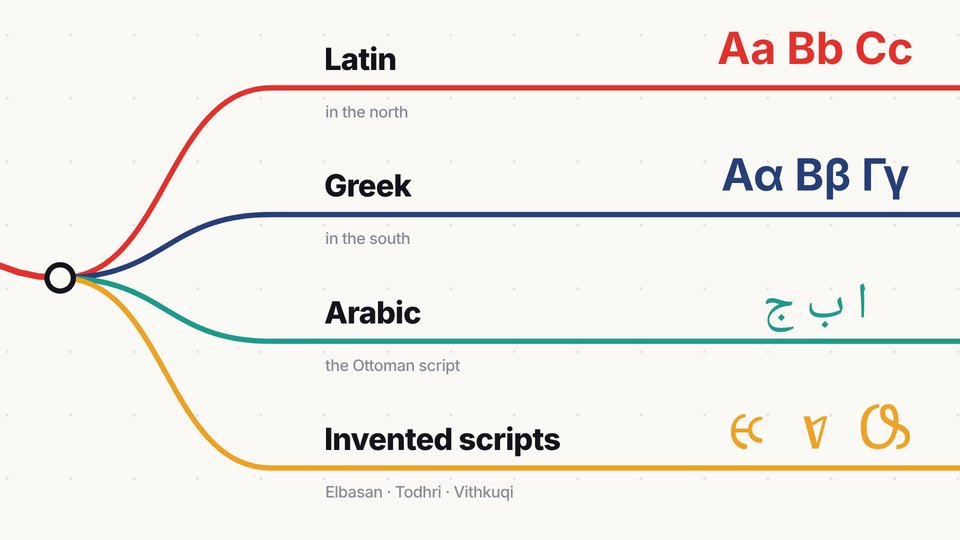
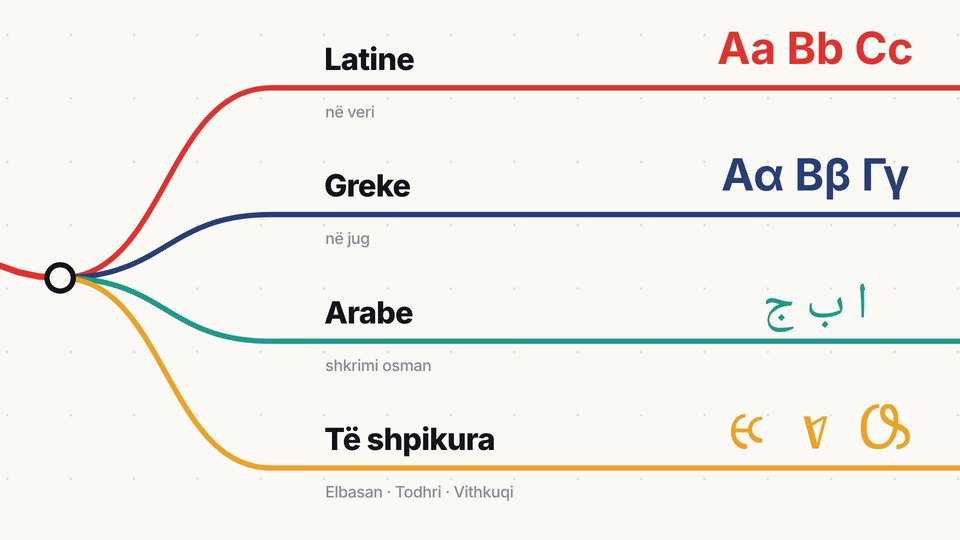
Alphabet film: on-screen text in Albanian

diff --git a/films/alfabeti-line/film.js b/films/alfabeti-line/film.js
@@ -74,13 +74,13 @@ function title(T) {
   const q = Q.title;
   cap('22 NËNTOR  ·  DITA E ALFABETIT', 152, 150, T, 0.3);
   roll('36', 132, 660, T, q[0], { size: 480, col: RED, t1: q[1] - 0.3 });
-  type('letters.', 800, 480, T, q[0] + 0.5, { size: 160, w: 800, t1: q[1] - 0.25 });
-  type('One sound for each.', 808, 606, T, q[0] + 1.7, { size: 68, w: 600, col: MUTE, t1: q[1] - 0.2 });
+  type('shkronja.', 800, 480, T, q[0] + 0.5, { size: 160, w: 800, t1: q[1] - 0.25 });
+  type('Një tingull për secilën.', 808, 606, T, q[0] + 1.7, { size: 68, w: 600, col: MUTE, t1: q[1] - 0.2 });
   LETTERS.forEach((l, i) => { const t0 = q[0] + 0.1 + i * 0.034, k = settle(prog(T, t0, 0.4)); if (k <= 0) return;      // the whole alphabet, lit one letter at a time
     const hot = Math.max(1 - prog(T, t0 + 0.12, 0.6), Math.sin(Math.PI * prog(T, q[1] + 2.9 + i * 0.03, 0.5)));
     ctx.save(); ctx.globalAlpha = clamp(k * 2); font(40, 700, 'Inter', 0); ctx.textAlign = 'center'; ctx.fillStyle = mix(FAINT, RED, hot); ctx.fillText(l, 172 + i * 45.2, 946 + 24 * (1 - k)); ctx.restore(); });
-  type('The Albanian\nalphabet', 144, 440, T, q[1] + 0.1, { size: 176, w: 800, lh: 0.97 });
-  sub('and the first book every child opens.', 152, 806, T, q[1] + 2.7, { size: 46 });
+  type('Alfabeti\nshqip', 144, 440, T, q[1] + 0.1, { size: 176, w: 800, lh: 0.97 });
+  sub('dhe libri i parë që hap çdo fëmijë.', 152, 806, T, q[1] + 2.7, { size: 46 });
   book(1570, 470, 170, T, q[1] + 3.4);
 }
 
@@ -88,22 +88,22 @@ function title(T) {
 const T1462 = when(SPX, 3600), T1555 = when(SPX, 5500);
 function early(T) {
   const q = Q.early;
-  type('Spoken', 2046, 400, T, q[0] + 0.2, { size: 176, w: 800 }); type('long before it was written.', 2056, 500, T, q[0] + 0.9, { size: 64, w: 600, col: MUTE });
-  cap('SPOKEN', 2650, 884, T, q[0] + 0.8, { align: 'c', t1: q[1] - 0.4 }); cap('WRITTEN', 3410, 884, T, q[0] + 2.0, { align: 'c', col: INK, t1: q[1] - 0.4 });
+  type('E folur', 2046, 400, T, q[0] + 0.2, { size: 176, w: 800 }); type('shumë kohë para se të shkruhej.', 2056, 500, T, q[0] + 0.9, { size: 64, w: 600, col: MUTE });
+  cap('E FOLUR', 2650, 884, T, q[0] + 0.8, { align: 'c', t1: q[1] - 0.4 }); cap('E SHKRUAR', 3410, 884, T, q[0] + 2.0, { align: 'c', col: INK, t1: q[1] - 0.4 });
   stop(3600, Y1, T, T1462, RED); roll('1462', 3584, Y1 - 100, T, T1462, { size: 220 });
-  type('Baptism formula', 3590, Y1 + 116, T, T1462 + 0.3, { size: 58, w: 800 }); sub('The oldest dated line in Albanian', 3590, Y1 + 170, T, T1462 + 0.5); sub('Pal Engjëlli · 8 November 1462', 3590, Y1 + 218, T, T1462 + 0.65);
+  type('Formula e pagëzimit', 3590, Y1 + 116, T, T1462 + 0.3, { size: 58, w: 800 }); sub('Fjalia më e vjetër e datuar', 3590, Y1 + 170, T, T1462 + 0.5); sub('Pal Engjëlli · 8 nëntor 1462', 3590, Y1 + 218, T, T1462 + 0.65);
   type('“Un’te paghesont’ pr’emenit\nt’Atit e t’Birit e t’Spertit Senit.”', 4250, Y1 - 190, T, T1462 + 0.9, { size: 54, w: 600, by: 'char', gap: 0.03, d: 0.4, lh: 1.3 });
-  sub('“I baptise you in the name of the Father,\nand the Son, and the Holy Spirit.”', 4250, Y1 + 116, T, T1462 + 3.0, { size: 34, lh: 1.36 });
+  sub('“Unë të pagëzoj në emër të Atit,\ne të Birit, e të Shpirtit të Shenjtë.”', 4250, Y1 + 116, T, T1462 + 3.0, { size: 34, lh: 1.36 });
   stop(5500, Y1, T, T1555, RED); roll('1555', 5484, Y1 - 100, T, T1555, { size: 220 });
-  type('Meshari', 5490, Y1 + 116, T, T1555 + 0.3, { size: 58, w: 800 }); sub('The first known printed book in Albanian', 5490, Y1 + 170, T, T1555 + 0.5); sub('Gjon Buzuku', 5490, Y1 + 218, T, T1555 + 0.65);
+  type('Meshari', 5490, Y1 + 116, T, T1555 + 0.3, { size: 58, w: 800 }); sub('Libri i parë i shtypur që njohim', 5490, Y1 + 170, T, T1555 + 0.5); sub('Gjon Buzuku', 5490, Y1 + 218, T, T1555 + 0.65);
   book(6560, 470, 190, T, T1555 + 0.6, { rules: 4 });
 }
 
 // ---------- one line becomes four
-const NAMES = ['Latin', 'Greek', 'Arabic', 'Invented scripts'], NOTES = ['in the north', 'in the south', 'the Ottoman script', 'Elbasan · Todhri · Vithkuqi'];
+const NAMES = ['Latine', 'Greke', 'Arabe', 'Të shpikura'], NOTES = ['në veri', 'në jug', 'shkrimi osman', 'Elbasan · Todhri · Vithkuqi'];      // shkronja latine, greke, arabe, të shpikura
 function scripts(T) {
   const q = Q.scripts;
-  type('For centuries,', 6570, 1640, T, q[0] + 0.1, { size: 64, w: 600, col: MUTE }); type('no single\nalphabet.', 6564, 1790, T, q[0] + 1.3, { size: 150, w: 800, lh: 1.02 });
+  type('Për shekuj me radhë,', 6570, 1640, T, q[0] + 0.1, { size: 64, w: 600, col: MUTE }); type('asnjë alfabet\ni vetëm.', 6564, 1784, T, q[0] + 1.3, { size: 124, w: 800, lh: 1.04 });
   stop(7900, Y2, T, when(SPX, 7890), INK, 30);
   STR.filter(s => s.base !== undefined).forEach(s => { const i = s.base, t0 = INTRO[i] + 0.25;
     type(NAMES[i], 8400, s.y - 34, T, t0, { size: 58, w: 800 }); sub(NOTES[i], 8402, s.y + 56, T, t0 + 0.25, { size: 30 });
@@ -114,17 +114,17 @@ function scripts(T) {
 }
 
 // ---------- primers, and more alphabets
-const T1844 = Q.primer[0] + 1.0, PRIMERS = [['1867–72', 'Kristoforidhi · Gheg and Tosk'], ['1879', 'The Istanbul primer'], ['1905–06', 'Gurakuqi']];
+const T1844 = Q.primer[0] + 1.0, PRIMERS = [['1867–72', 'Kristoforidhi · gegë e toskë'], ['1879', 'Abetarja e Stambollit'], ['1905–06', 'Gurakuqi']];
 function primer(T) {
   const q = Q.primer;
   stop(9900, 2260, T, T1844, AMBER); roll('1844', 9884, 2512, T, T1844, { size: 220 });
   book(10640, 2436, 112, T, T1844 + 2.3, { rules: 0 }); ['𐕰', '𐕱', '𐕲', '𐕳'].forEach((g, j) => glyph(g, 10640 + (j < 2 ? -1 : 1) * (j % 2 ? 76 : 34), 2428, T, T1844 + 2.9 + j * 0.1, { size: 36, fam: 'Vithkuqi', w: 400, col: AMBER }));
-  type('Ëvetar', 10830, 2416, T, T1844 + 2.6, { size: 64, w: 800, t1: q[1] - 0.4 }); sub('The first Albanian primer', 10832, 2470, T, T1844 + 2.8, { t1: q[1] - 0.4 }); sub('by Naum Veqilharxhi, in his own script', 10832, 2518, T, T1844 + 3.0, { t1: q[1] - 0.4 });
+  type('Ëvetar', 10830, 2416, T, T1844 + 2.6, { size: 64, w: 800, t1: q[1] - 0.4 }); sub('Abetarja e parë shqipe', 10832, 2470, T, T1844 + 2.8, { t1: q[1] - 0.4 }); sub('nga Naum Veqilharxhi, me shkrimin e tij', 10832, 2518, T, T1844 + 3.0, { t1: q[1] - 0.4 });
   PRIMERS.forEach(([yr, who], j) => { const x = 11720 + j * 600, t0 = q[1] + 1.4 + j * 0.5;
     rule(x, 1492, x, 2308, ez(T, t0, 0.7), FAINT, 3); book(x, 1396, 56, T, t0 + 0.1, { rules: 0, lw: 5 });
     type(yr, x + 80, 1392, T, t0 + 0.2, { size: 54, w: 800 }); sub(who, x + 81, 1436, T, t0 + 0.35, { size: 30 }); });
-  type('More primers followed', 11700, 2436, T, q[1] + 0.7, { size: 96, w: 800, t1: q[2] - 0.5 }); sub('in different alphabets, and in both dialects', 11705, 2494, T, q[1] + 1.2, { size: 40, t1: q[2] - 0.5 });
-  type('At least six alphabets', 13420, 1440, T, q[2] + 1.9, { size: 120, w: 800 }); sub('in use by the start of the twentieth century', 13426, 1498, T, q[2] + 2.3);
+  type('Pasuan abetare të tjera', 11700, 2436, T, q[1] + 0.7, { size: 96, w: 800, t1: q[2] - 0.5 }); sub('me alfabete të ndryshme dhe në të dy dialektet', 11705, 2494, T, q[1] + 1.2, { size: 40, t1: q[2] - 0.5 });
+  type('Të paktën gjashtë alfabete', 13420, 1440, T, q[2] + 1.9, { size: 104, w: 800 }); sub('në përdorim në fillim të shekullit XX', 13426, 1498, T, q[2] + 2.3);
   STR.forEach((s, i) => { const k = pop(T, q[2] + 2.6 + i * 0.13); if (k <= 0) return;                             // count them
     disc(14250, s.y, 30 * k, s.col); disc(14250, s.y, 22 * k, PAPER); ctx.save(); ctx.globalAlpha = clamp(k * 2); font(28, 800, 'InterNum', 0); ctx.textAlign = 'center'; ctx.fillStyle = INK; ctx.fillText(i + 1, 14250, s.y + 10); ctx.restore(); });
 }
@@ -135,18 +135,18 @@ const seat = i => { const a = (-90 + (i + 0.5) * 7.2) * Math.PI / 180; return [H
 const huddle = j => j === 0 ? [HUB[0], HUB[1] - 40] : [HUB[0] + 74 * Math.cos(j * Math.PI / 5), HUB[1] - 40 + 74 * Math.sin(j * Math.PI / 5)];
 function congress(T) {
   const q = Q.congress, tH = q[0] + 0.7, tSeat = q[0] + 2.7, tVote = q[0] + 5.0, tCom = q[2] + 0.6;
-  roll('1908', 15414, 1650, T, tH, { size: 220 }); type('Manastir', 15420, 1740, T, q[0] + 4.3, { size: 62, w: 800 }); sub('today Bitola · 14–22 November', 15420 + width('Manastir', 62, 800) + 26, 1740, T, q[0] + 5.2, { size: 34 });
-  roll('50', 15418, 2112, T, tSeat, { size: 120 }); sub('delegates', 15424, 2162, T, tSeat + 0.2, { size: 32 });
-  roll('32', 15758, 2112, T, tVote, { size: 120 }); sub('with a vote', 15764, 2162, T, tVote + 0.2, { size: 32 });
-  roll('11', 16078, 2112, T, tCom, { size: 120, col: RED }); sub('on the alphabet\ncommission', 16084, 2162, T, tCom + 0.2, { size: 32, lh: 1.25 });
+  roll('1908', 15414, 1650, T, tH, { size: 220 }); type('Manastir', 15420, 1740, T, q[0] + 4.3, { size: 62, w: 800 }); sub('sot Bitola · 14–22 nëntor', 15420 + width('Manastir', 62, 800) + 26, 1740, T, q[0] + 5.2, { size: 34 });
+  roll('50', 15418, 2112, T, tSeat, { size: 120 }); sub('delegatë', 15424, 2162, T, tSeat + 0.2, { size: 32 });
+  roll('32', 15758, 2112, T, tVote, { size: 120 }); sub('me votë', 15764, 2162, T, tVote + 0.2, { size: 32 });
+  roll('11', 16078, 2112, T, tCom, { size: 120, col: RED }); sub('në komisionin\ne alfabetit', 16084, 2162, T, tCom + 0.2, { size: 32, lh: 1.25 });
   for (let i = 0; i < 50; i++) { const k = pop(T, tSeat + i * 0.03, 0.4); if (k <= 0) continue; const [x, y] = seat(i), j = COMM.indexOf(i);
     if (NOVOTE(i)) { disc(x, y, 12 * k, INK); disc(x, y, 7.5 * k * ez(T, tVote + i * 0.01, 0.4), PAPER); }                // observers become rings
     else if (j < 0) disc(x, y, 12 * k, INK);
     else { const m = io3(prog(T, tCom + 0.3 + j * 0.05, 0.9)), [hx, hy] = huddle(j); disc(lerp(x, hx, m), lerp(y, hy, m), 12 * k + 4 * m, mix(INK, RED, prog(T, tCom + j * 0.04, 0.3))); } }
-  sub('One question', HUB[0], 1826, T, q[1] + 0.2, { align: 'c', w: 600, t1: q[2] - 0.25 }); type('Which\nletters?', HUB[0], 1908, T, q[1] + 1.9, { size: 96, w: 800, align: 'c', lh: 1.0, t1: q[2] - 0.2 });
-  type('Commission of 11', HUB[0], 2046, T, tCom + 1.1, { size: 34, w: 700, col: RED, align: 'c' });
-  type('Latin', 17660, 1826, T, q[2] + 3.4, { size: 58, w: 800, col: RED }); type('Istanbul', 17660, 2012, T, q[2] + 4.8, { size: 58, w: 800, col: mix(INK, GREY, prog(T, q[3] + 1.5, 0.8)) });
-  type('Within a few years,', 17020, 1578, T, q[3] + 0.1, { size: 48, w: 600, col: MUTE }); type('one alphabet.', 17014, 1704, T, q[3] + 2.0, { size: 130, w: 800 });
+  sub('Një pyetje', HUB[0], 1826, T, q[1] + 0.2, { align: 'c', w: 600, t1: q[2] - 0.25 }); type('Cilat\nshkronja?', HUB[0], 1908, T, q[1] + 1.9, { size: 96, w: 800, align: 'c', lh: 1.0, t1: q[2] - 0.2 });
+  type('Komisioni i 11-ve', HUB[0], 2046, T, tCom + 1.1, { size: 34, w: 700, col: RED, align: 'c' });
+  type('Latin', 17660, 1826, T, q[2] + 3.4, { size: 58, w: 800, col: RED }); type('Stambolli', 17660, 2012, T, q[2] + 4.8, { size: 58, w: 800, col: mix(INK, GREY, prog(T, q[3] + 1.5, 0.8)) });
+  type('Brenda pak vitesh,', 17020, 1578, T, q[3] + 0.1, { size: 48, w: 600, col: MUTE }); type('një alfabet.', 17014, 1704, T, q[3] + 2.0, { size: 130, w: 800 });
 }
 
 // ---------- thirty-six letters, on red. Drawn in screen pixels over everything else.
@@ -163,8 +163,8 @@ function letters(T, c) {
     if (l.length === 2) { const p = pop(T, tP + np++ * 0.06); if (p > 0) box(cx - 60 * p, cy - 60 * p, 120 * p, 120 * p, 26, WHITE, { line: 5, a: A * clamp(p * 2) }); }
     if (MARKED.has(l)) { const m = pop(T, tM + (l === 'ë' ? 0.25 : 0)), u = prog(T, tM + (l === 'ë' ? 0.25 : 0), 0.9); ring(cx, cy, 76 * m, 6, WHITE, 1, A); if (u > 0 && u < 1) ring(cx, cy, 76 + 70 * settle(u), 4, WHITE, 1, A * (1 - u)); }
     ctx.save(); ctx.translate(cx, cy); ctx.scale(k * (1 + 0.2 * bump), k * (1 + 0.2 * bump)); ctx.globalAlpha = A * clamp(k * 2); font(84, 700, 'Inter', -0.02); ctx.textAlign = 'center'; ctx.fillStyle = v > 0.5 ? RED : WHITE; ctx.fillText(l, -1, 27); ctx.restore(); });
-  roll('36', 1404, 520, T, q[0] - 0.3, { size: 300, col: WHITE, a: A }); type('letters', 1414, 612, T, q[0], { size: 76, w: 700, col: WHITE, a: A }); sub('one sound for each', 1416, 668, T, q[0] + 0.3, { col: WH(0.78), a: A });
-  [[170, '7', 'vowels', tV], [480, '29', 'consonants', tC], [940, '9', 'written as pairs', tP], [1430, '2', 'carry a mark', tM]].forEach(([x, n, s, t0]) => {
+  roll('36', 1404, 520, T, q[0] - 0.3, { size: 300, col: WHITE, a: A }); type('shkronja', 1414, 612, T, q[0], { size: 76, w: 700, col: WHITE, a: A }); sub('një tingull për secilën', 1416, 668, T, q[0] + 0.3, { col: WH(0.78), a: A });
+  [[170, '7', 'zanore', tV], [450, '29', 'bashkëtingëllore', tC], [1010, '9', 'me dy shkronja', tP], [1470, '2', 'me shenjë', tM]].forEach(([x, n, s, t0]) => {
     roll(n, x, 968, T, t0, { size: 120, col: WHITE, a: A, d: 0.7 }); type(s, x + width(n, 120, 800, 'InterNum', -0.03) + 20, 968, T, t0 + 0.15, { size: 40, w: 600, col: WH(0.82), a: A }); });
 }
 
@@ -174,17 +174,17 @@ const T2012 = when(RPX, 21150), T2022 = when(RPX, 22150), TILES = [['Elbasan', '
 function today(T) {
   const q = Q.today, tJ = q[0] - 0.5, tS = q[0] + 5.3;
   stop(19350, Y2, T, 0, RED); roll('1972', 19334, 1800, T, tJ, { size: 220 });
-  type('Orthography Congress', 19340, 2016, T, q[0] + 2.4, { size: 58, w: 800 }); sub('Tirana · 20–25 November 1972', 19340, 2070, T, q[0] + 2.7);
+  type('Kongresi i Drejtshkrimit', 19340, 2016, T, q[0] + 2.4, { size: 52, w: 800 }); sub('Tiranë · 20–25 nëntor 1972', 19340, 2070, T, q[0] + 2.7);
   font(120, 800, 'Inter', -0.02); let x = 20090; WORD.forEach((ch, i) => { const wch = ctx.measureText(ch).width, k = settle(prog(T, q[0] + 3.6 + i * 0.04, 0.4)), m = 1 - clamp(over(prog(T, tS + i * 0.035, 0.6)), 0, 1.1);      // letters out of line, then in line
     if (k > 0) { ctx.save(); ctx.translate(x + wch / 2, 1790 + JIT[i][0] * 44 * m); ctx.rotate(JIT[i][1] * 0.32 * m); ctx.globalAlpha = clamp(k * 2); font(120, 800, 'Inter', -0.02); ctx.textAlign = 'center'; ctx.fillStyle = mix(INK, MUTE, m); ctx.fillText(ch, 0, 0); ctx.restore(); }
     x += wch; });
-  type('One standard spelling', 20094, 2016, T, tS + 0.5, { size: 46, w: 700, col: RED }); sub('drejtshkrimi: orthography', 20094, 2066, T, tS + 0.8, { size: 30 });
+  type('Një drejtshkrim i njësuar', 20094, 2016, T, tS + 0.5, { size: 46, w: 700, col: RED });
   stop(21150, Y2, T, T2012, RED); roll('2012', 21136, 1800, T, T2012, { size: 170 });
-  type('A shared Abetare', 21140, 2012, T, T2012 + 2.5, { size: 54, w: 800 }); sub('Albania and Kosovo', 21140, 2064, T, T2012 + 2.8);
+  type('Abetare e përbashkët', 21140, 2012, T, T2012 + 2.5, { size: 54, w: 800 }); sub('Shqipëria dhe Kosova', 21140, 2064, T, T2012 + 2.8);
   { const k = pop(T, T2012 + 0.8), dx = lerp(150, 52, io3(prog(T, T2012 + 2.4, 1.0))), cx = 21830, cy = 1716, r = 86 * k;                       // two circles that come to share a middle
     if (k > 0) { ctx.save(); ctx.beginPath(); ctx.arc(cx - dx, cy, r, 0, 7); ctx.clip(); disc(cx + dx, cy, r, RED); ctx.restore(); ring(cx - dx, cy, r, 6, INK); ring(cx + dx, cy, r, 6, INK); } }
-  stop(22150, Y2, T, T2022, RED); roll('2022', 22136, 1800, T, T2022, { size: 170 }); type('A new joint edition', 22140, 2012, T, T2022 + 0.9, { size: 54, w: 800 });
-  sub('The old invented scripts', 22962, 1560, T, q[2] + 0.9, { size: 48, w: 600 }); type('now in Unicode', 22956, 1694, T, q[2] + 2.6, { size: 130, w: 800 }); sub('the standard behind every screen', 23990, 1694, T, q[2] + 4.7);
+  stop(22150, Y2, T, T2022, RED); roll('2022', 22136, 1800, T, T2022, { size: 170 }); type('Botim i ri\ni përbashkët', 22140, 2012, T, T2022 + 0.9, { size: 54, w: 800, lh: 1.14 });
+  sub('Shkrimet e vjetra të shpikura', 22962, 1560, T, q[2] + 0.9, { size: 48, w: 600 }); type('tani në Unicode', 22956, 1694, T, q[2] + 2.6, { size: 118, w: 800 }); sub('standardi pas çdo ekrani', 23990, 1694, T, q[2] + 4.7);
   TILES.forEach(([name, ver, yr, g, tx]) => { const t0 = when(RPX, tx), k = pop(T, t0 + 0.25, 0.5);
     rule(tx, Y2 + 16, tx, 1996, ez(T, t0 + 0.1, 0.3), INK, 4); if (k > 0) box(tx - 95 * k, 1996, 190 * k, 190 * k, 36, INK, { a: clamp(k * 3) });
     glyph(g, tx, 2076, T, t0 + 0.45, { size: 150, fam: name, w: 400, col: PAPER }); stop(tx, Y2, T, t0, AMBER, 20);
@@ -195,14 +195,14 @@ function today(T) {
 const T2026 = when(RPX, 25050), SLOT = LETTERS.map((_, i) => [BK.x + (i % 12 - 5.5) * 84, 1486 + Math.floor(i / 12) * 84]);      // three tidy rows above the book
 function outro(T) {
   const q = Q.outro;
-  stop(25050, Y2, T, T2026, RED); roll('2026', 25036, 1800, T, T2026, { size: 170 }); sub('22 November · Alphabet Day', 25040, 2012, T, T2026 + 0.4, { size: 40, w: 600 });
-  roll('118', 25634, 1812, T, q[0] + 1.7, { size: 330, col: RED, d: 1.3, t1: q[1] - 0.3 }); type('years', 26310, 1812, T, q[0] + 2.8, { size: 100, w: 800, t1: q[1] - 0.35 });
-  type('since the Congress of Manastir', 25646, 2012, T, q[0] + 3.5, { size: 48, w: 700, t1: q[1] - 0.3 });
+  stop(25050, Y2, T, T2026, RED); roll('2026', 25036, 1800, T, T2026, { size: 170 }); sub('22 nëntor · Dita e Alfabetit', 25040, 2012, T, T2026 + 0.4, { size: 40, w: 600 });
+  roll('118', 25634, 1812, T, q[0] + 1.7, { size: 330, col: RED, d: 1.3, t1: q[1] - 0.3 }); type('vjet', 26310, 1812, T, q[0] + 2.8, { size: 100, w: 800, t1: q[1] - 0.35 });
+  type('nga Kongresi i Manastirit', 25646, 2012, T, q[0] + 3.5, { size: 48, w: 700, t1: q[1] - 0.3 });
   rule(BK.x, BK.top + 50, BK.x, BK.bot + 50, ez(T, BOOK1 - 0.1, 0.5), RED, 12);                                    // the spine, once the line has closed the outline
   for (const d of [-1, 1]) for (let j = 0; j < 4; j++) { const r = ez(T, BOOK1 + 0.2 + j * 0.1 + (d > 0 ? 0.35 : 0), 0.5), xa = BK.x + d * 70, yy = 1870 + j * 50; rule(xa, yy - 10, xa + d * 220, yy - 40, r, FAINT, 7); }
   LETTERS.forEach((l, i) => { const k = settle(prog(T, q[1] + 4.2 + i * 0.045, 0.8)); if (k <= 0) return; const [sx, sy] = SLOT[i];       // the letters rise out of it
     ctx.save(); ctx.translate(lerp(BK.x, sx, k), lerp(BK.top + 30, sy, k) - 60 * Math.sin(Math.PI * k)); ctx.scale(0.3 + 0.7 * k, 0.3 + 0.7 * k); ctx.globalAlpha = clamp(k * 3); font(46, 700, 'Inter', 0); ctx.textAlign = 'center'; ctx.fillStyle = VOWELS.has(l) ? RED : INK; ctx.fillText(l, 0, 15); ctx.restore(); });
-  type('Abetare', BK.x, 2282, T, q[1] + 3.2, { size: 112, w: 800, align: 'c' }); sub('the same 36 letters, every autumn', BK.x, 2340, T, q[1] + 5.2, { align: 'c', size: 38 });
+  type('Abetarja', BK.x, 2282, T, q[1] + 3.2, { size: 112, w: 800, align: 'c' }); sub('të njëjtat 36 shkronja, çdo vjeshtë', BK.x, 2340, T, q[1] + 5.2, { align: 'c', size: 38 });
 }
 
 function draw(T) {

diff --git a/films/alfabeti-line/SOURCES.md b/films/alfabeti-line/SOURCES.md
@@ -1,6 +1,6 @@
 # Sources: the Albanian alphabet as one line
 
-Checked on 23 November 2026. Flat style (`engine/flat.js`). Narration is in Albanian (`script.json`), spoken by ElevenLabs v4 through Higgsfield, preset voice Elena, one clip per scene in `voice/`. ElevenLabs does not list Albanian as a supported language, so the clips were checked by speech recognition: the transcript matches the script, and every number was confirmed with digits disabled in the recogniser. The earlier English script is kept as `script.en.json`. On-screen text is in English.
+Checked on 23 November 2026. Flat style (`engine/flat.js`). Narration is in Albanian (`script.json`), spoken by ElevenLabs v4 through Higgsfield, preset voice Elena, one clip per scene in `voice/`. ElevenLabs does not list Albanian as a supported language, so the clips were checked by speech recognition: the transcript matches the script, and every number was confirmed with digits disabled in the recogniser. The earlier English script is kept as `script.en.json`. On-screen text is in Albanian.
 
 ## Documents
 
@@ -54,7 +54,7 @@ Checked on 23 November 2026. Flat style (`engine/flat.js`). Narration is in Alba
 | Scene | Fact | Source |
 |---|---|---|
 | early | Wording of the baptism formula, "Un'te paghesont' pr'emenit t'Atit e t'Birit e t'Spertit Senit.", dated 8 November 1462 | Wikipedia, "Formula e pagëzimit". https://en.wikipedia.org/wiki/Formula_e_pag%C3%ABzimit |
-| early | English rendering "I baptise you in the name of the Father, and the Son, and the Holy Spirit" | Our translation of the standard formula; the page gives none |
+| early | Modern Albanian rendering under the formula, "Unë të pagëzoj në emër të Atit, e të Birit, e të Shpirtit të Shenjtë" | Our rendering of the standard formula; the page gives none |
 | congress | 14–22 November; 32 of 50 delegates with a vote, so 18 without (computed: 50 − 32) | CoM |
 | today | Orthography Congress dates, 20–25 November 1972 | OC |
 | outro | 118 years (computed: 2026 − 1908) | CoM, ATSH |
